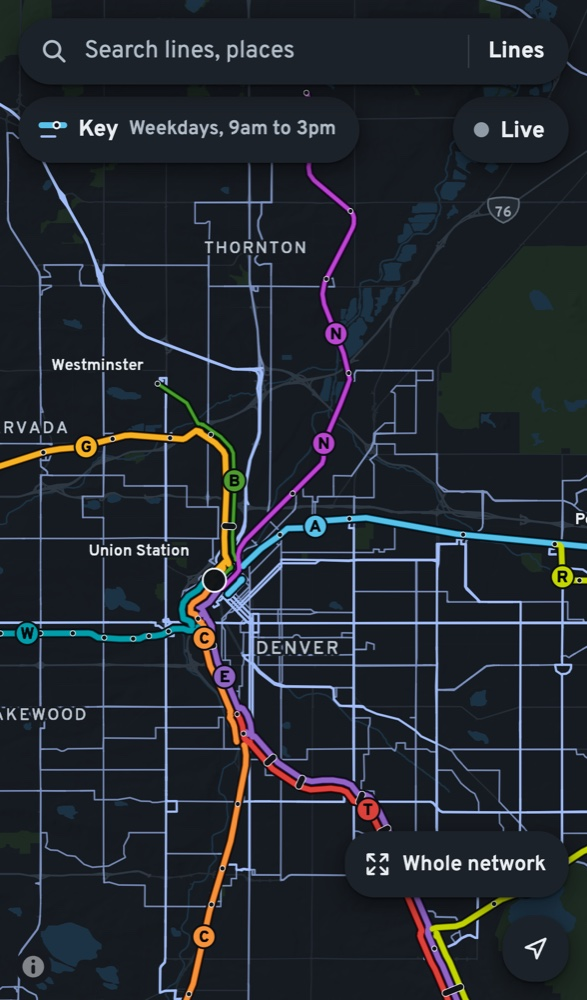
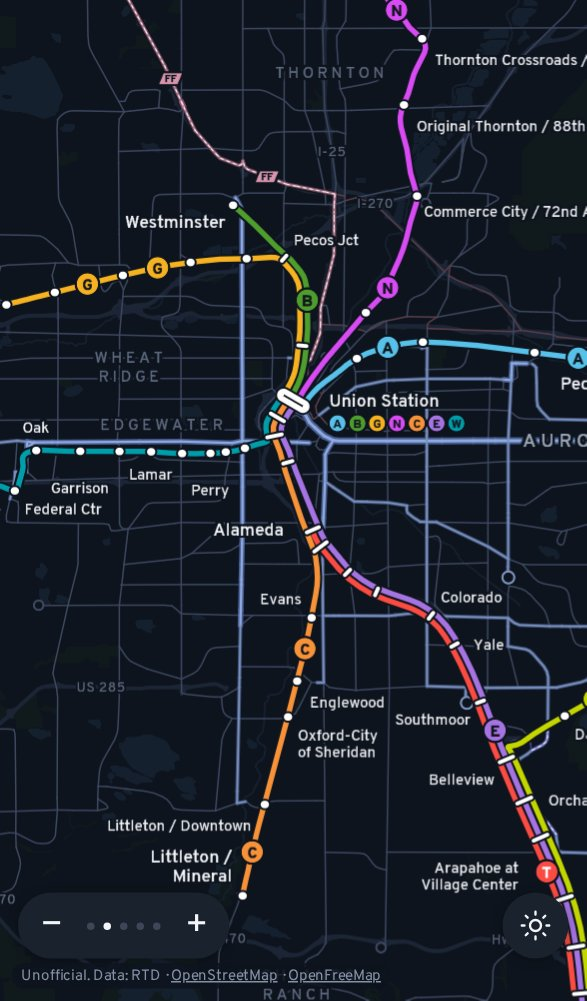
README: open with the current map and its new address
Fresh light and dark screenshots of the five-sheet map, two plain
sentences on what it is, the link to map.chrisfnicholson.com, then the
development notes. docs/social-preview.png is retaken from the live map
with the new address and without the Live claim.

Fixes #182

diff --git a/README.md b/README.md
@@ -1,15 +1,25 @@
 # RTD system map
 
-A map of Denver's transit that opens on the whole network and shows how often
-each line comes, not just where it goes. It is for people finding out what
-transit they can use at a place, riders on the move, and anyone who needs a
-clear picture of where Denver has useful service. It is built for phones first.
-Live vehicles and the earlier map's other features are planned for the smooth-zoom replacement.
+<p align="center">
+  <img src="docs/screenshot-light.jpg" width="300" alt="The map on a phone: Denver's rail lines and bus routes around Union Station, light theme">
+  &nbsp;
+  <img src="docs/screenshot-dark.jpg" width="300" alt="The same view in the dark theme">
+</p>
 
-**Open it: [rtd-system-map.pages.dev](https://rtd-system-map.pages.dev)**
+A map of every RTD bus and train line in the Denver region that shows how
+often each one comes, not just where it goes. It is built for phones and keeps
+working offline after one visit.
 
-The front page is five sheets, each drawn for one scale. The earlier Classic
-application is preserved on the
+**Open it: [map.chrisfnicholson.com](https://map.chrisfnicholson.com)**
+
+This is unofficial. It is built only from RTD's public data and is not
+affiliated with RTD.
+
+## Development
+
+The front page is five sheets, each drawn for one scale. Live vehicles and the
+earlier map's other features are planned for the smooth-zoom replacement. The
+earlier Classic application is preserved on the
 [`classic-archive` branch](https://github.com/datapolitical/rtd-system-map/tree/classic-archive).
 Old `/classic/` links redirect to the current map.
 
@@ -22,16 +32,7 @@ wiki](https://github.com/datapolitical/rtd-system-map/wiki), one page per
 section. Every part of the map follows it: what it shows, how it looks and
 behaves, and how it's checked.
 
-This is unofficial. It is built only from RTD's public data and is not
-affiliated with RTD.
-
-<p align="center">
-  <img src="docs/screenshot-light.jpg" width="300" alt="The map's opening view on a phone: Denver's rail lines and frequent bus corridors, light theme">
-  &nbsp;
-  <img src="docs/screenshot-dark.jpg" width="300" alt="The same view in the dark theme">
-</p>
-
-## Run it
+### Run it
 
 You need Node 22 and Cloudflare's Wrangler CLI (`npm install -g wrangler`).
 
@@ -50,7 +51,7 @@ npm run check:sheets # the longer sheet-map regression checks
 (`npx playwright install chromium`). The current map's checks need no Live relay.
 `CHECK_URL` selects a preview instead. See [the checks guide](qa/checks/README.md).
 
-## Design
+### Design
 
 [DESIGN.md](DESIGN.md) is the source of truth for the objective, audience,
 data, map design, interface and milestones. Read it before changing the map,
@@ -58,7 +59,7 @@ the interface or the data pipeline (CLAUDE.md says the same). When a decision
 changes, update it and add a line to its decision log. Nothing about RTD's
 network is written into the code; the build derives it from RTD's data.
 
-## Layout
+### Layout
 
 - `public/`: the static site (plain ES modules in `js/`, no framework).
   `public/data/` is built with `npm run build:data` and committed;
